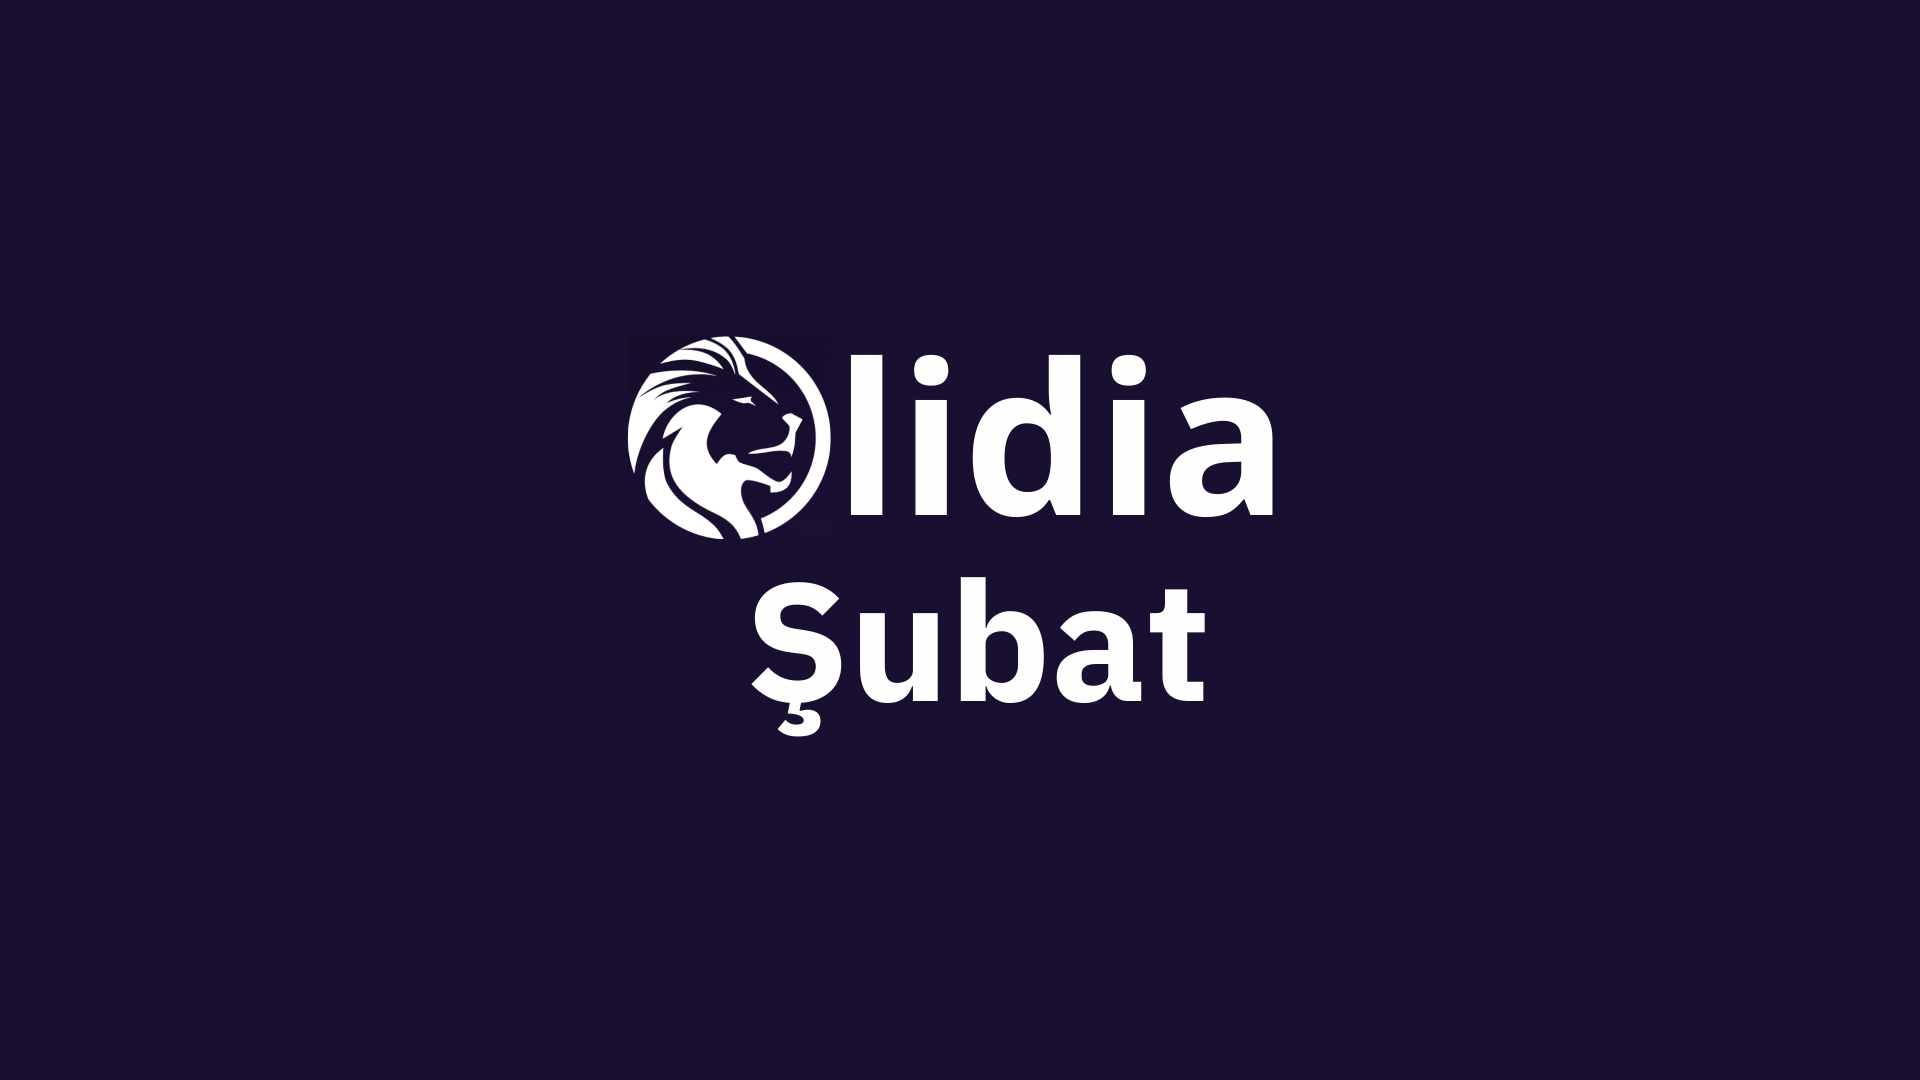
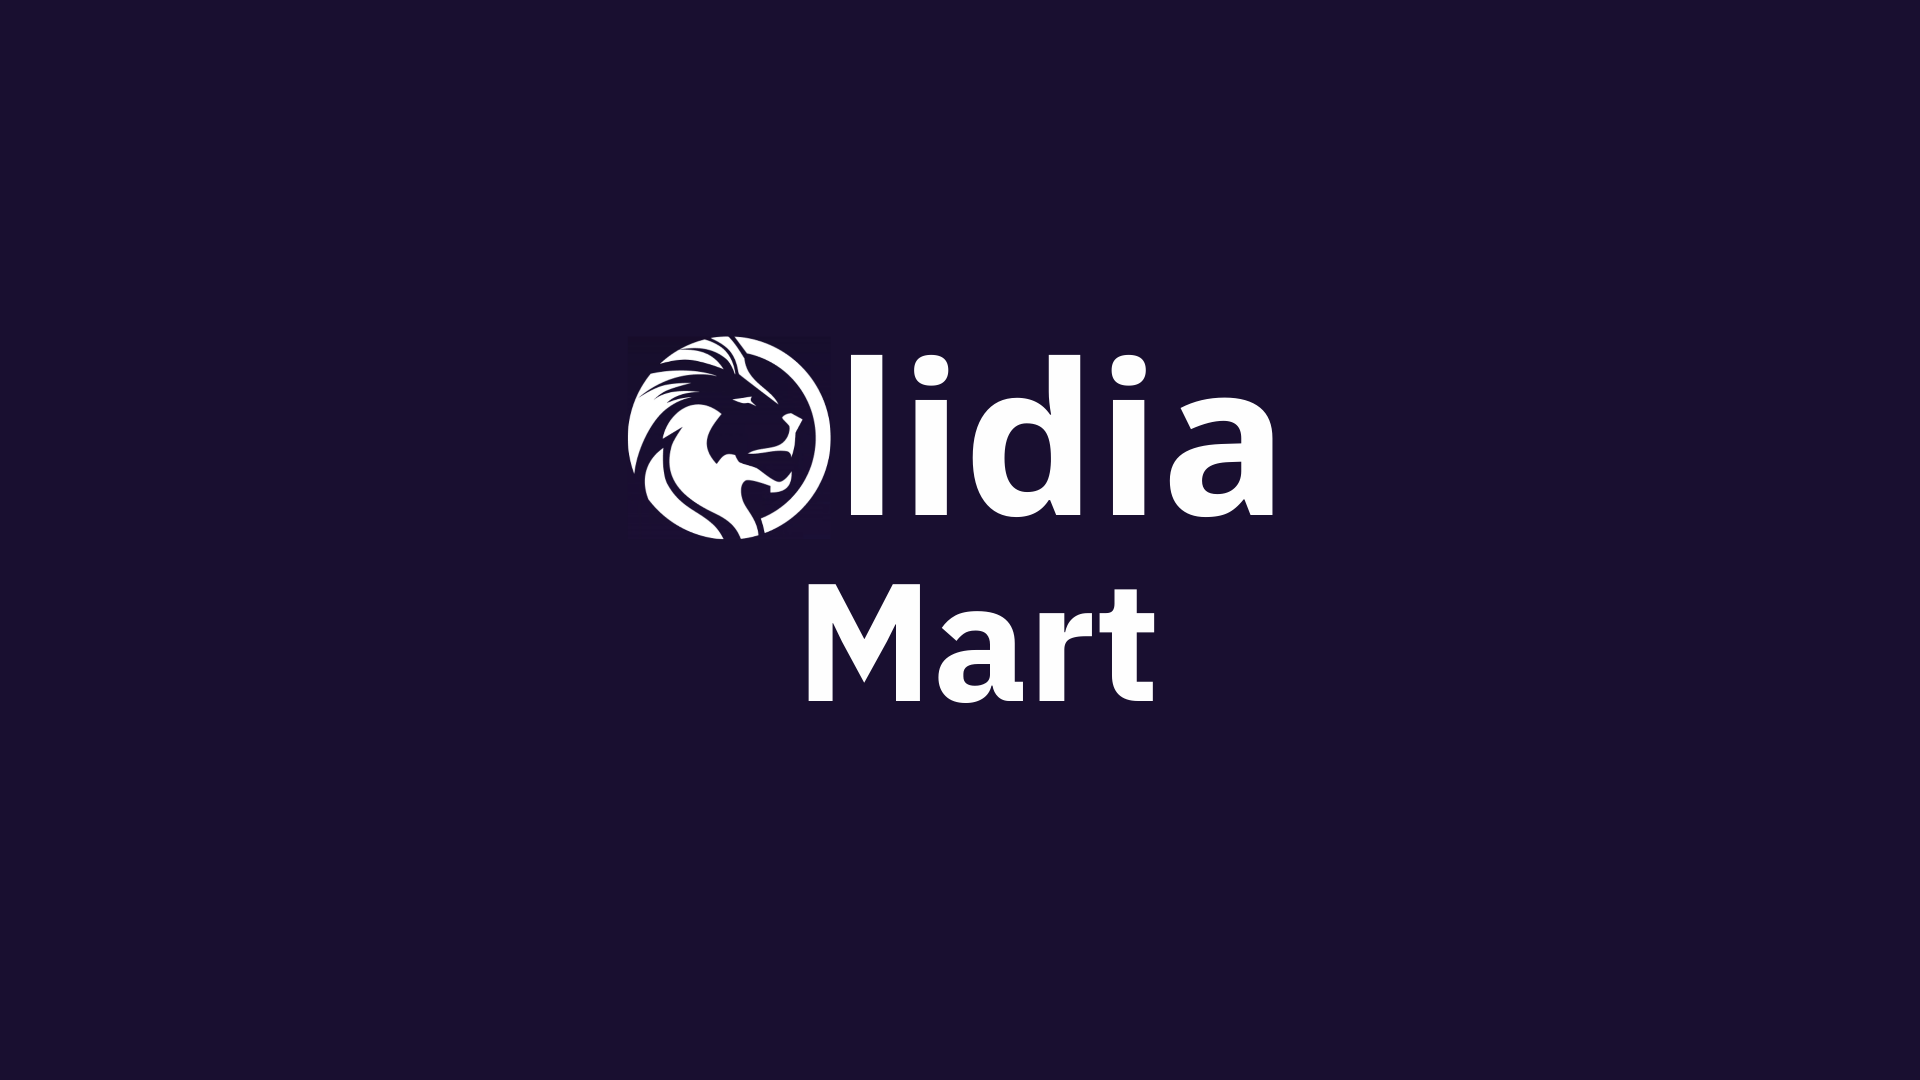
GITBOOK-725: change request with no subject merged in GitBook

Changed region(s): [[0.375, 0.5194, 0.625, 0.7028]]

diff --git a/help-center/releases/turkce/lidia-3.3.x-surum-notlari.md b/help-center/releases/turkce/lidia-3.3.x-surum-notlari.md
@@ -2,6 +2,8 @@
 description: >-
   Bu ay boyunca Lidia platformunda fonksiyonellik ve kullanıcı deneyimini
   iyileştiren en son güncellemeleri ve geliştirmeleri keşfedin.
+cover: ../../../.gitbook/assets/1.png
+coverY: 0
 ---
 
 # Lidia 3.3.x sürüm notları
@@ -24,7 +26,7 @@ Bu kodlar, platform genelindeki iyileştirmelerin hangi alanlara yönelik olduğ
 
 
 
-## <mark style="color:purple;">**Sürüm 3.2**</mark>
+## <mark style="color:purple;">**Sürüm 3.3**</mark>
 
 ### Yeni Geliştirmeler
 

diff --git a/help-center/releases/turkce/lidia-3.2.x-surum-notlari.md b/help-center/releases/turkce/lidia-3.2.x-surum-notlari.md
@@ -2,7 +2,7 @@
 description: >-
   Bu ay boyunca Lidia platformunda fonksiyonellik ve kullanıcı deneyimini
   iyileştiren en son güncellemeleri ve geliştirmeleri keşfedin.
-cover: ../../../.gitbook/assets/1.png
+cover: ../../../.gitbook/assets/1 (9).png
 coverY: 0
 ---
 
